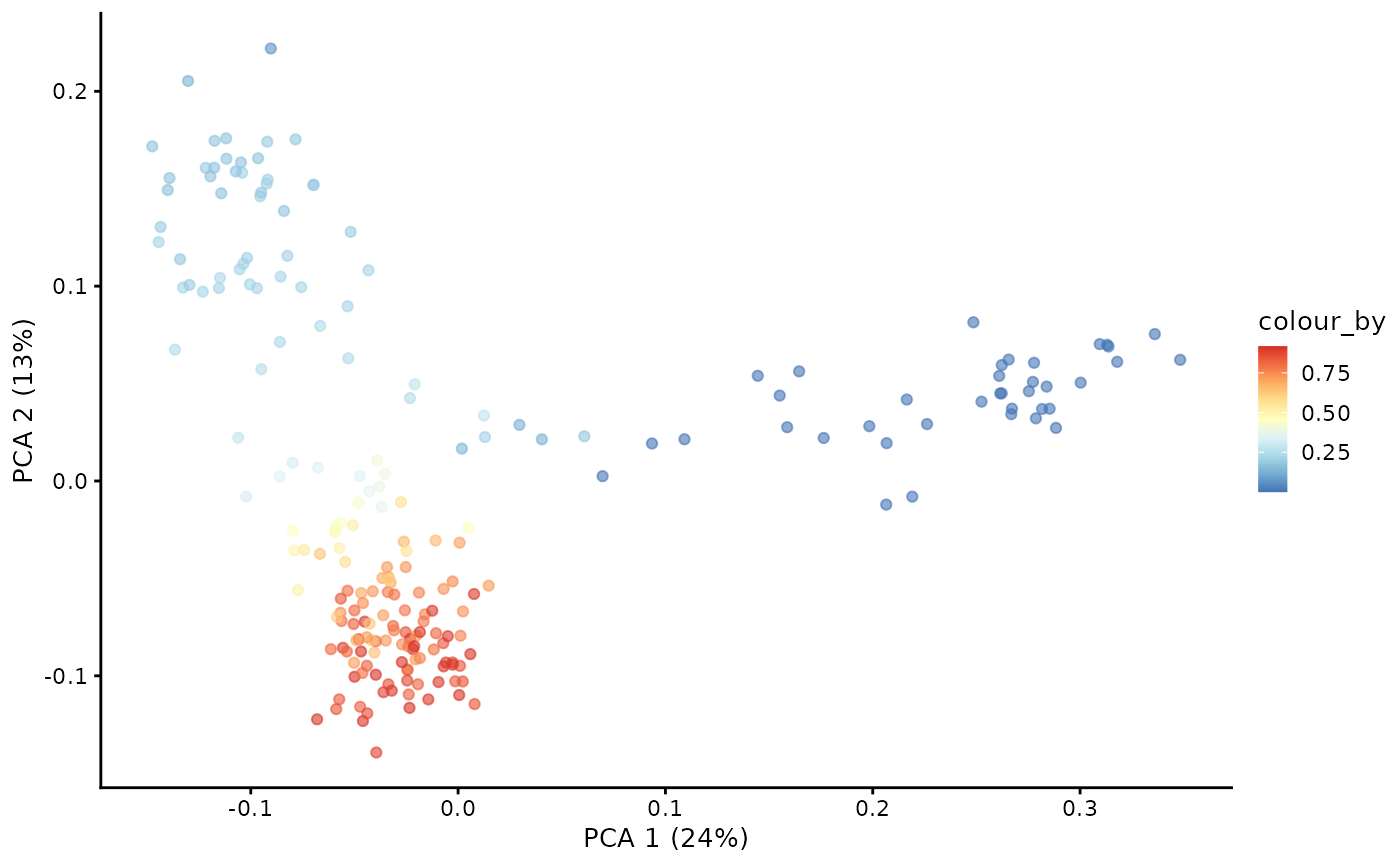
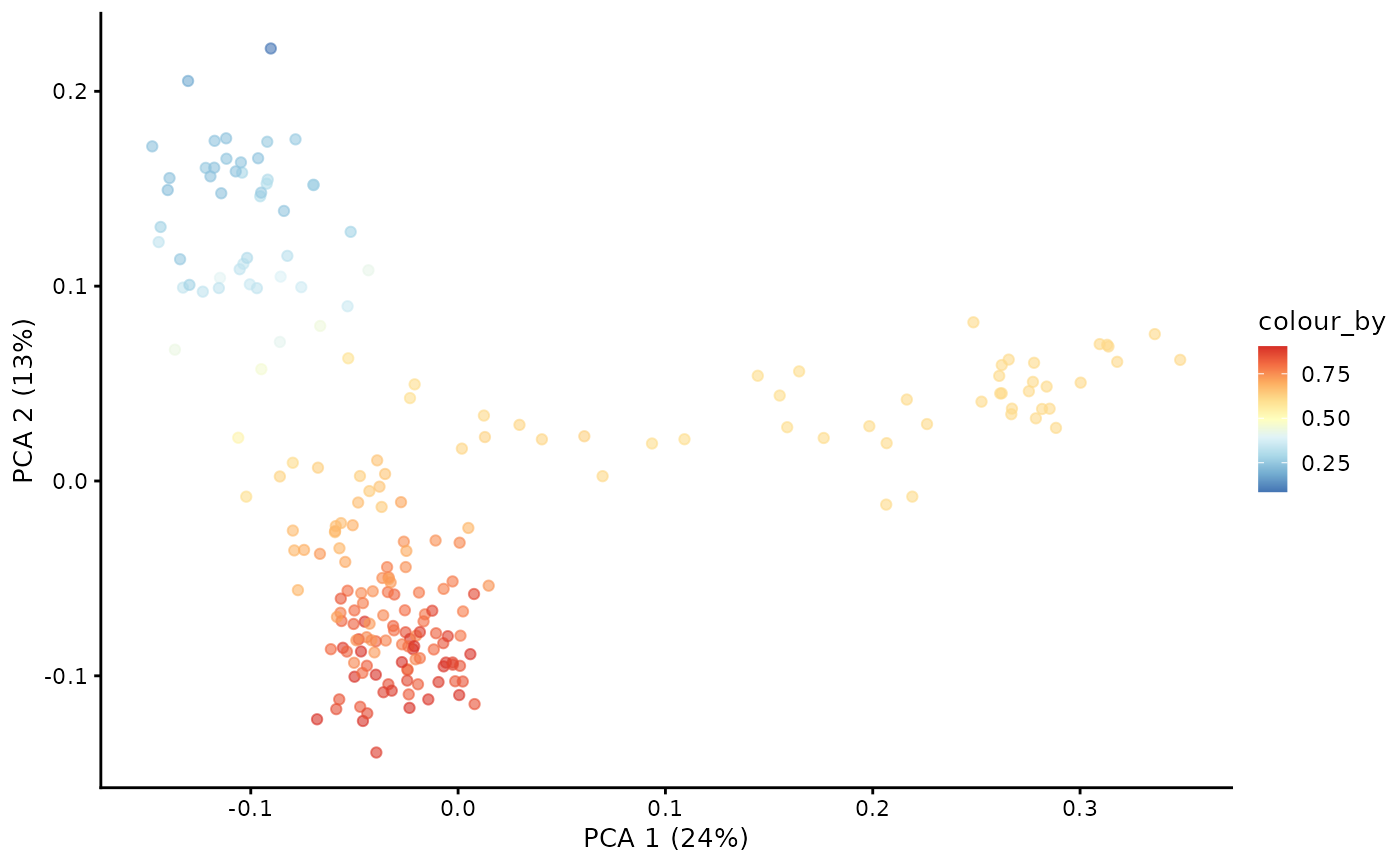
Built site for dandelionR@0.99.0: 0a7a8b3

diff --git a/preview/pr30/articles/dandelionR.html b/preview/pr30/articles/dandelionR.html
@@ -100,7 +100,7 @@ you encounter any problems or have any suggestions for improvement.</p>
 </h3>
 <p>First, we will load the demo data. This is a down-sampled dataset
 from the <a href="https://www.nature.com/articles/s41587-023-01734-7" class="external-link">Suo et al 2024
-Nature Biotechnology</a> paper. It contains 32000 cells with the TCR
+Nature Biotechnology</a> paper. It contains 10,000 cells with the TCR
 information and the dimensionality reduced data (scVI) that we need for
 this tutorial. The gene expression matrix is not required for this
 tutorial so it is not included in the demo data. We will show in a
@@ -183,8 +183,8 @@ computation.</p>
 <span><span class="co"># define the CD8 terminal cell as the top-most cell and CD4 terminal cell as the bottom-most cell</span></span>
 <span><span class="va">branch.tips</span> <span class="op">&lt;-</span> <span class="fu"><a href="https://rdrr.io/r/base/c.html" class="external-link">c</a></span><span class="op">(</span><span class="fu"><a href="https://rdrr.io/r/base/which.min.html" class="external-link">which.max</a></span><span class="op">(</span><span class="va">pca</span><span class="op">[</span><span class="fl">2</span>, <span class="op">]</span><span class="op">)</span>, <span class="fu"><a href="https://rdrr.io/r/base/which.min.html" class="external-link">which.min</a></span><span class="op">(</span><span class="va">pca</span><span class="op">[</span><span class="fl">2</span>, <span class="op">]</span><span class="op">)</span><span class="op">)</span></span>
 <span><span class="fu"><a href="https://rdrr.io/r/base/names.html" class="external-link">names</a></span><span class="op">(</span><span class="va">branch.tips</span><span class="op">)</span> <span class="op">&lt;-</span> <span class="fu"><a href="https://rdrr.io/r/base/c.html" class="external-link">c</a></span><span class="op">(</span><span class="st">"CD8+T"</span>, <span class="st">"CD4+T"</span><span class="op">)</span></span>
-<span><span class="co"># define the start of our trajectory as the left-most cell</span></span>
-<span><span class="va">root</span> <span class="op">&lt;-</span> <span class="fu"><a href="https://rdrr.io/r/base/which.min.html" class="external-link">which.min</a></span><span class="op">(</span><span class="va">pca</span><span class="op">[</span><span class="fl">1</span>, <span class="op">]</span><span class="op">)</span></span></code></pre></div>
+<span><span class="co"># define the start of our trajectory as the right-most cell</span></span>
+<span><span class="va">root</span> <span class="op">&lt;-</span> <span class="fu"><a href="https://rdrr.io/r/base/which.min.html" class="external-link">which.max</a></span><span class="op">(</span><span class="va">pca</span><span class="op">[</span><span class="fl">1</span>, <span class="op">]</span><span class="op">)</span></span></code></pre></div>
 </div>
 <div class="section level4">
 <h4 id="construct-diffusion-map">Construct diffusion map<a class="anchor" aria-label="anchor" href="#construct-diffusion-map"></a>
